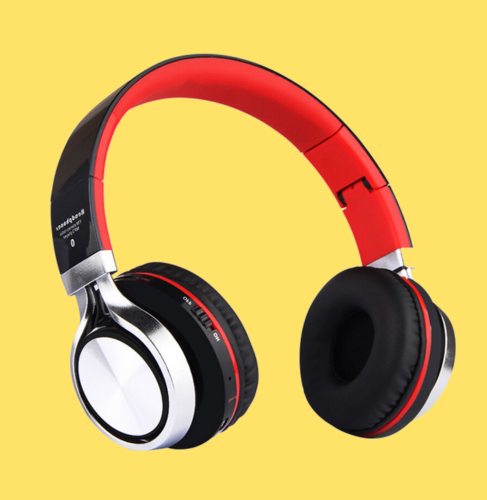
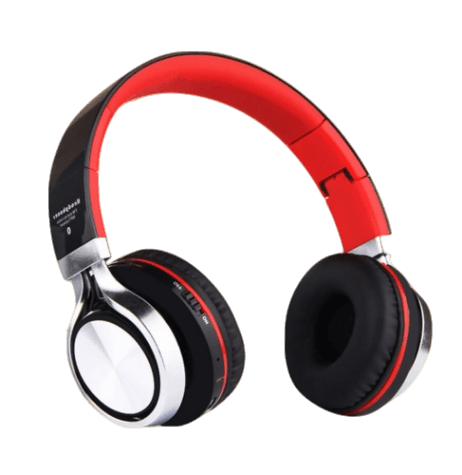
pictures updated

diff --git a/electronics.html b/electronics.html
@@ -36,30 +36,34 @@
     
     </div>
     <div class="elec-shop">
-        <div class="phone prdct-page">
-            <img alt="s23" src="Images/s23.jpg">
-            <h2>Samsung Galaxy S23 Ultra 5G (Phantom Black, 12GB, 256GB Storage)</h1>
+        <div class="phone prdct-sec">
+            <img alt="s23" src="Images/s23.png">
+           <div class="prdct-sinfo"> <h2>Samsung Galaxy S23 Ultra 5G (Phantom Black, 12GB, 256GB Storage)</h1><br>
             <p>-17% ₹1,24,999<br>
                 M.R.P.: ₹1,49,999<br>
                 Inclusive of all taxes<br>
                 EMI starts at ₹6,061. No Cost EMI available EMI options </p>
-
+</div>
         </div>
-        <div class="watch prdct-page">
-            <img alt="apple watch" src="Images/watch.jpg">
-            <h2>Apple Watch Ultra [GPS + Cellular 49 mm] smart watch w/Rugged Titanium Case & Orange Alpine Loop - Large. Fitness Tracker, Precision GPS, Action Button, Extra-Long BatteryLife, Brighter Retina Display</h2>
+        <div class="watch prdct-sec">
+            <img alt="apple watch" src="Images/watch.png">
+           <div class="prdct-sinfo"> 
+            <h2>Apple Watch Ultra [GPS + Cellular 49 mm] smart watch w/Rugged Titanium Case & Orange Alpine Loop - Large. Fitness Tracker, Precision GPS, Action Button, Extra-Long BatteryLife, Brighter Retina Display</h2><br>
+            <p>-17% ₹1,24,999<br>
             <p>-8% ₹82,999<br>
                 M.R.P.: ₹89,900<br>
                 Inclusive of all taxes<br>
-                EMI starts at ₹4,024. No Cost EMI available EMI options </p>
+                EMI starts at ₹4,024. No Cost EMI available EMI options </p></div>
         </div>
-        <div class="headphones prdct-page">
-            <img alt="headphones" src="Images/headphones.jpg">
-            <h2>Sony WH-CH520, Wireless On-Ear Bluetooth Headphones with Mic, Upto 50 Hours Playtime, DSEE Upscale, Multipoint Connectivity/Dual Pairing,Voice Assistant App Support for Mobile Phones (Black)</h2>
-            <p>-25% ₹4,490<br>
-                M.R.P.: ₹5,990<br>
-                Inclusive of all taxes<br>
-                EMI starts at ₹218. No Cost EMI available EMI options </p>
+        <div class="headphones prdct-sec">
+            <img alt="headphones" src="Images/headphones.png">
+            <div class="prdct-sinfo">
+                <h2>Sony WH-CH520, Wireless On-Ear Bluetooth Headphones with Mic, Upto 50 Hours Playtime, DSEE Upscale, Multipoint Connectivity/Dual Pairing,Voice Assistant App Support for Mobile Phones (Black)</h2><br>
+                <p>-17% ₹1,24,999<br>
+                <p>-25% ₹4,490<br>
+                    M.R.P.: ₹5,990<br>
+                    Inclusive of all taxes<br>
+                    EMI starts at ₹218. No Cost EMI available EMI options </p></div>
         </div>
     </div>
     <footer>

diff --git a/furniture.html b/furniture.html
@@ -36,31 +36,37 @@
     
     </div>
     <div class="furniture">
-        <div class="sofa prdct-page">
+        <div class="sofa prdct-sec">
             <img alt="sofa" src="Images/sofa.webp">
-            <h2>Homevibes 3 Seater Upholstered Premium Fabric Sofa |Stylish and Comfortable Living Room Furniture| Heavy Quality Sofa and Builtin| Throne of Comfort</h2>
+            <div class="prdct-sinfo">
+                <h2>Homevibes 3 Seater Upholstered Premium Fabric Sofa |Stylish and Comfortable Living Room Furniture| Heavy Quality Sofa and Builtin| Throne of Comfort</h2>
             <p>-62% ₹23,999<br>
                 M.R.P.: ₹62,999<br>
                 Inclusive of all taxes<br>
                 EMI starts at ₹1,164. No Cost EMI available EMI options </p>
 
+            </div>
         </div>
-        <div class="table prdct-page">
+        <div class="table prdct-sec">
             <img alt="table" src="Images/studytable.webp">
-            <h2>PAZANO Table Study Computer Office Table for Adults 【L90xW60cm】 Computer Table for Home,Work Office Desk,pc Desktop Table,Wooden Table for Office Work with Smooth Edges and Round Corner (Natural)</h2>
+            <div class="prdct-sinfo">
+                <h2>PAZANO Table Study Computer Office Table for Adults 【L90xW60cm】 Computer Table for Home,Work Office Desk,pc Desktop Table,Wooden Table for Office Work with Smooth Edges and Round Corner (Natural)</h2>
             <p>Deal<br>
                 -34% ₹3,299<br>
                 M.R.P.: ₹4,999<br>
                 Inclusive of all taxes<br>
                 EMI starts at ₹160. No Cost EMI available EMI options </p>
+            </div>
         </div>
-        <div class="bed">
+        <div class="bed prdct-sec">
             <img alt="bed" src="Images/bed.webp">
-            <h2>Amazon Brand - Solimo Neptune Engineered Wood Queen Wenge Finish Bed with Storage (Brown)</h2>
+            <div class="prdct-sinfo">
+                <h2>Amazon Brand - Solimo Neptune Engineered Wood Queen Wenge Finish Bed with Storage (Brown)</h2>
             <p>-69% ₹15,499<br>
                 M.R.P.: ₹49,500<br>
                 Inclusive of all taxes<br>
                 EMI starts at ₹751. No Cost EMI available EMI options </p>
+            </div>
         </div>
     </div>
     <footer>

diff --git a/grocery.html b/grocery.html
@@ -36,28 +36,33 @@
     
     </div>
     <div class="grocery">
-        <div class="oil prdct-page">
-            <img alt="oil" src="Images/oil.jpg">
-            <h2>Jivo Cold Pressed Chemical Free Sunflower Oil 5 Litre |For Roasting, Frying, Baking All type of Cuisines|</h2>
+        <div class="oil prdct-sec">
+            <img alt="oil" src="Images/oil.png">
+            <div class="prdct-sinfo">
+                <h2>Jivo Cold Pressed Chemical Free Sunflower Oil 5 Litre |For Roasting, Frying, Baking All type of Cuisines|</h2>
             <p>1K+ bought in past month  |  1K+ viewed in past month<br>
                 M.R.P.:	₹1,350<br>
                 Price:	₹849 (₹16.98 / l)<br>
                 You Save:	₹501 (37%)<br>
                 Inclusive of all taxes
                  </p>
+            </div>
 
         </div>
-        <div class="flour prdct-page">
-            <img alt="flour" src="Images/atta.jpg">
-            <h2>Aashirvaad Shudh Chakki Atta, 5kg Pack</h2>
+        <div class="flour prdct-sec">
+            <img alt="flour" src="Images/atta.png">
+            <div class="prdct-sinfo">
+                <h2>Aashirvaad Shudh Chakki Atta, 5kg Pack</h2>
             <p>-7% ₹226.00 (₹45.20 / kg)<br>
                 M.R.P.: ₹242.00<br>
                 Inclusive of all taxes<br>
                 Partner Offers: Get GST invoice and save up to 28% on business purchases.<br>
                  Sign up for free DetailsPartner Offers: Get GST invoice and save up to 28% o…Details</p>
+            </div>
         </div>
-        <div class="grains prdct-page">
-            <img alt="grains" src="Images/grains.jpg">
+        <div class="grains prdct-sec">
+            <img alt="grains" src="Images/grains.png">
+           <div class="prdct-sinfo">
             <h2>Manna Millets 5Kg Combo Pack of 10 | Natural Grains | Unpolished Millets | Siridhanya | Little, Kodo, Foxtail, Proso, Barnyard (Pack of 1kg) | Low GI Native Rice | High Protein & More Fibre than Rice</h2>
             <p>Deal of the Day<br>
                 M.R.P.:	₹1,300<br>
@@ -66,6 +71,7 @@
                 You Save:	₹205 (16%)<br>
                 Inclusive of all taxes<br>
                 EMI starts at ₹99 per month. EMI</p>
+           </div>
         </div>
     </div>
     <footer>

diff --git a/cosmetic.html b/cosmetic.html
@@ -42,31 +42,36 @@
         </div>
     </div>
     <div class="cosmetics-shop">
-        <div class="lipstick prdct-page">
-            <img alt="lipstick" src="Images/lipstic.webp">
-            <h2>SUGAR Cosmetics Smudge Me Not Liquid Mini Lipstick Set | Bold Set, Ultra Matte, Transferproof and Waterproof, Lasts Up to 12hrs (Gift Set | Pack of 4)</h2>
+        <div class="lipstick prdct-sec">
+            <img alt="lipstick" src="Images/lipstic.png">
+            <div class="prdct-sinfo">
+            <h2>SUGAR Cosmetics Smudge Me Not Liquid Mini Lipstick Set | Bold Set, Ultra Matte, Transferproof and Waterproof, Lasts Up to 12hrs (Gift Set | Pack of 4)</h2><br>
+            <p>-17% ₹1,24,999<br>
             <p>-20% ₹799<br>
                 M.R.P.: ₹999<br>
                 Inclusive of all taxes<br>
                 </p>
+            </div>
 
         </div>
-        <div class="eye-make prdct-page">
-            <img alt="Kajal" src="Images/kajal.jpg">
-            <h2>SUGAR Cosmetics Kohl of Honour Intense Kajal, Matte Finish, Longlasting Formula, Lightweight - 01 Black Out</h2>
+        <div class="eye-make prdct-sec">
+            <img alt="Kajal" src="Images/kajal.png">
+         <div class="prdct-sinfo">   
+            <h2>SUGAR Cosmetics Kohl of Honour Intense Kajal, Matte Finish, Longlasting Formula, Lightweight - 01 Black Out</h2><br>
+            <p>-17% ₹1,24,999<br>
             <p>M.R.P.:	₹249<br>
                 Price:	₹212 Fulfilled<br>
                 You Save:	₹37 (15%)<br>
                 Inclusive of all taxes
-                </p>
+                </p></div>
         </div>
-        <div class="foundation prdct-page">
-            <img alt="foundation" src="Images/foundation.webp">
-            <h2>Lakme 9 to 5 Primer with Matte Powder Foundation Compact, Ivory Cream, 9g</h2>
+        <div class="foundation prdct-sec">
+            <img alt="foundation" src="Images/foundation.png">
+           <div class="prdct-sinfo"> <h2>Lakme 9 to 5 Primer with Matte Powder Foundation Compact, Ivory Cream, 9g</h2>
             <p>-21% ₹474<br>
                 M.R.P.: ₹600<br>
                 Fulfilled<br>
-                Inclusive of all taxes</p>
+                Inclusive of all taxes</p></div>
         </div>
     </div>
     <footer>

diff --git a/home-appliances.html b/home-appliances.html
@@ -36,8 +36,9 @@
 
     </div>
     <div class="homeappliance">
-        <div class="fridge prdct-page">
-            <img alt="fridge" src="Images/fridge.jpg">
+        <div class="fridge prdct-sec">
+            <img alt="fridge" src="Images/fridge.png">
+           <div class="prdct-sinfo">
             <h2>Whirlpool 207 L 5 Star Inverter Direct-Cool Single Door Refrigerator (230 IMPRO ROY 5S INV WINE ABYSS-Z, With Base Stand, 2023 Model)</h2>
             <p>-24% ₹18,990<br>
                 M.R.P.: ₹25,050<br>
@@ -45,19 +46,23 @@
                 Inclusive of all taxes<br>
                 EMI starts at ₹921. No Cost EMI available EMI options </p>
 
+           </div>
         </div>
-        <div class="tv prdct-page">
-            <img alt="television" src="Images/tv.jpg">
+        <div class="tv prdct-sec">
+            <img alt="television" src="Images/tv.png">
+           <div class="prdct-sinfo">
             <h2>LG 126 cm (50 inches) 4K Ultra HD Smart LED TV 50UR7500PSC (Dark Iron Gray)</h2>
             <p>-41% ₹40,990<br>
                 M.R.P.: ₹69,990<br>
                 Fulfilled<br>
                 Inclusive of all taxes<br>
                 EMI starts at ₹1,987. No Cost EMI available EMI options  </p>
+           </div>
         </div>
-        <div class="washingmachine prdct-page">
-            <img alt="washingmachine" src="Images/washing-machine.jpg">
-            <h2>LG 7 Kg 5 Star Inverter Touch panel Fully-Automatic Front Load Washing Machine with In-Built Heater (FHM1207SDM, Middle Black, Steam for Hygiene Wash)</h2>
+        <div class="washingmachine prdct-sec">
+            <img alt="washingmachine" src="Images/washing-machine.png">
+            <div class="prdct-sinfo">
+                <h2>LG 7 Kg 5 Star Inverter Touch panel Fully-Automatic Front Load Washing Machine with In-Built Heater (FHM1207SDM, Middle Black, Steam for Hygiene Wash)</h2>
             <p>-32% ₹29,990<br>
                 M.R.P.: ₹43,990<br>
                 Fulfilled<br>
@@ -66,6 +71,7 @@
                 Coupon:    <br>
                 
                  Apply ₹1500 coupon Terms</p>
+            </div>
         </div>
     </div>
     <footer>

diff --git a/fashion.html b/fashion.html
@@ -36,29 +36,35 @@
  
     </div>
     <div class="fashion-shop">
-        <div class="women prdct-page">
-            <img alt="wome fashion" src="Images/women-f.jpg">
-            <h2>Women's Denim Blend Standard Length Jacket</h1>
-            <p> -75% ₹378<br>
-                M.R.P.: ₹1,499<br>
-                Fulfilled<br>
-                Inclusive of all taxes</p>
-
+        <div class="women prdct-sec">
+            <img alt="wome fashion" src="Images/women-f.png">
+            <div class="prdct-sinfo">
+                <h2>Women's Denim Blend Standard Length Jacket</h1>
+                    <p> -75% ₹378<br>
+                        M.R.P.: ₹1,499<br>
+                        Fulfilled<br>
+                        Inclusive of all taxes</p>
+        
+            </div>
         </div>
-        <div class="men prdct-page">
-            <img alt="men fasion" src="Images/men-f.jpg">
-            <h2>Shaftesbury London Mens Slim Fit Formal Blazer - Bl1black</h2>
+        <div class="men prdct-sec">
+            <img alt="men fasion" src="Images/men-f.png">
+            <div class="prdct-sinfo">
+                <h2>Shaftesbury London Mens Slim Fit Formal Blazer - Bl1black</h2>
             <p>-70% ₹2,098<br>
                 M.R.P.: ₹6,999<br>
                 Inclusive of all taxes<br>
                 EMI starts at ₹102. No Cost EMI available EMI options  </p>
+            </div>
         </div>
-        <div class="kids prdct-page">
-            <img alt="kids fashion" src="Images/kids-f.jpg">
-            <h2>TAGAS Baby-Girls Mario Rib A-Line Casual Dress</h2>
-            <p>-67% ₹499<br>
+        <div class="kids prdct-sec">
+            <img alt="kids fashion" src="Images/kids-f.png">
+            <div class="prdct-sinfo">
+                <h2>TAGAS Baby-Girls Mario Rib A-Line Casual Dress</h2>
+                <p>-67% ₹499<br>
                 M.R.P.: ₹1,499<br>
-                Inclusive of all taxes</p>
+                Inclusive of all taxes</p
+            </div>
         </div>
     </div>
     <footer>

diff --git a/style.css b/style.css
@@ -170,3 +170,14 @@ header{
   
 }
 /** shopping pages codding**/
+.prdct-sec{
+  display: flex;
+  margin-top: 5%;
+  margin-bottom: 5%;
+}
+.prdct-sec img{
+  width: 25%;
+}
+.prdct-sinfo{
+  margin-left: 6%;
+}
